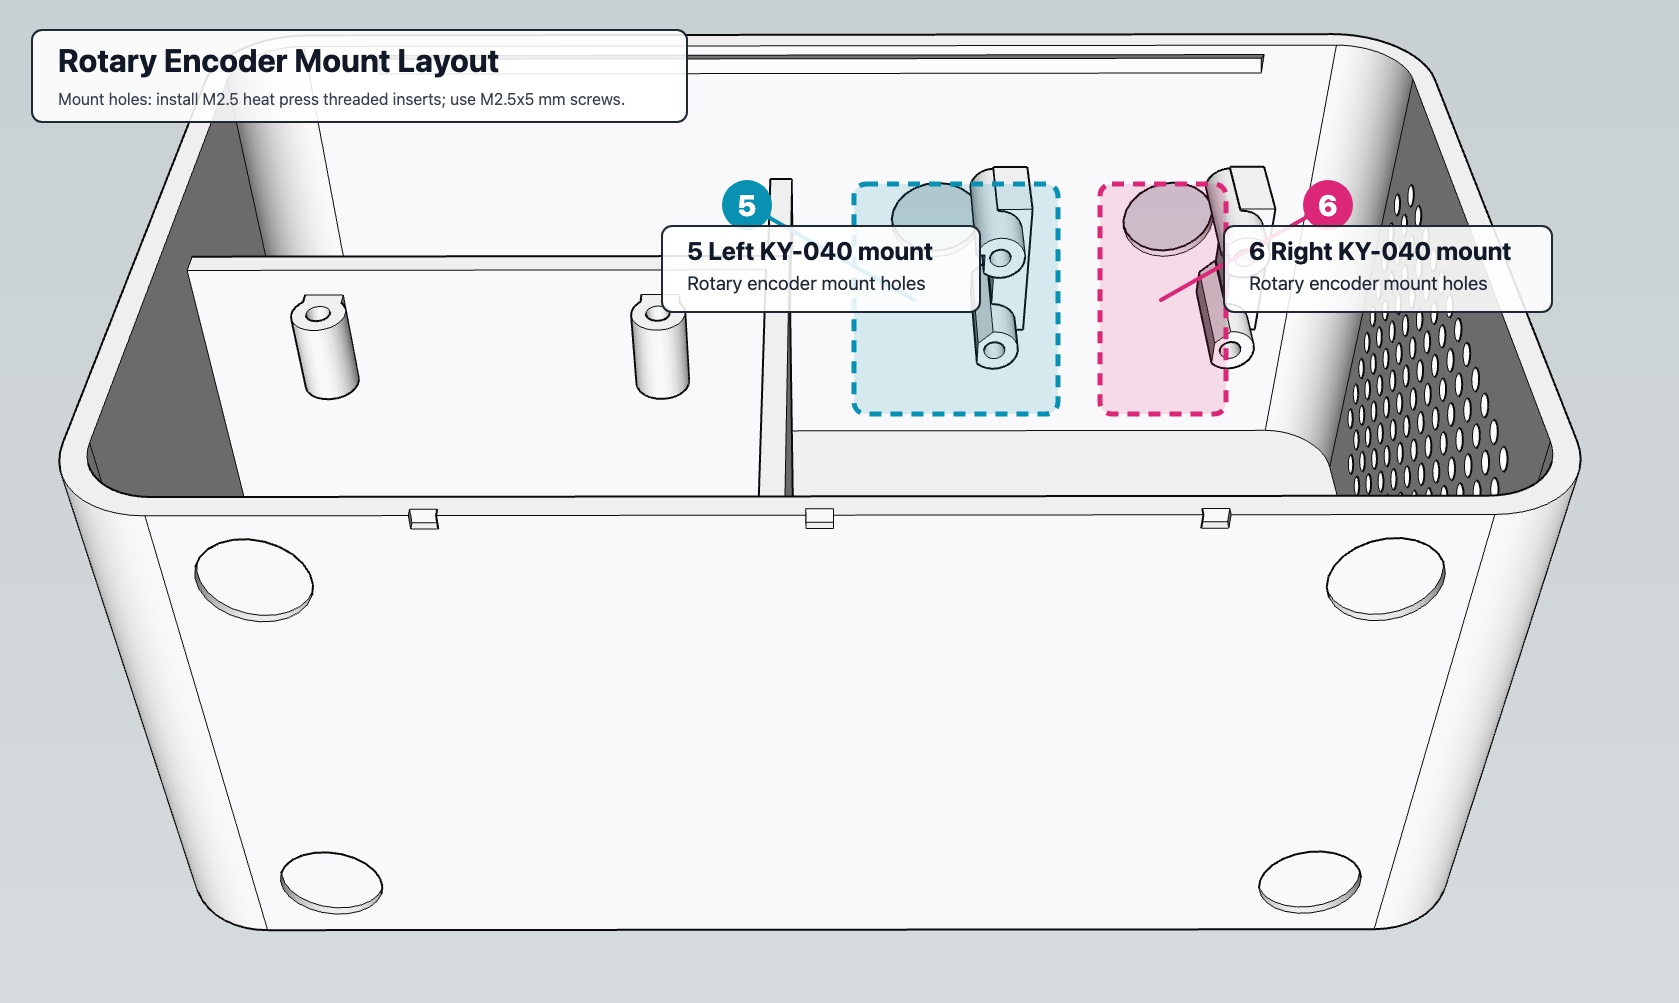
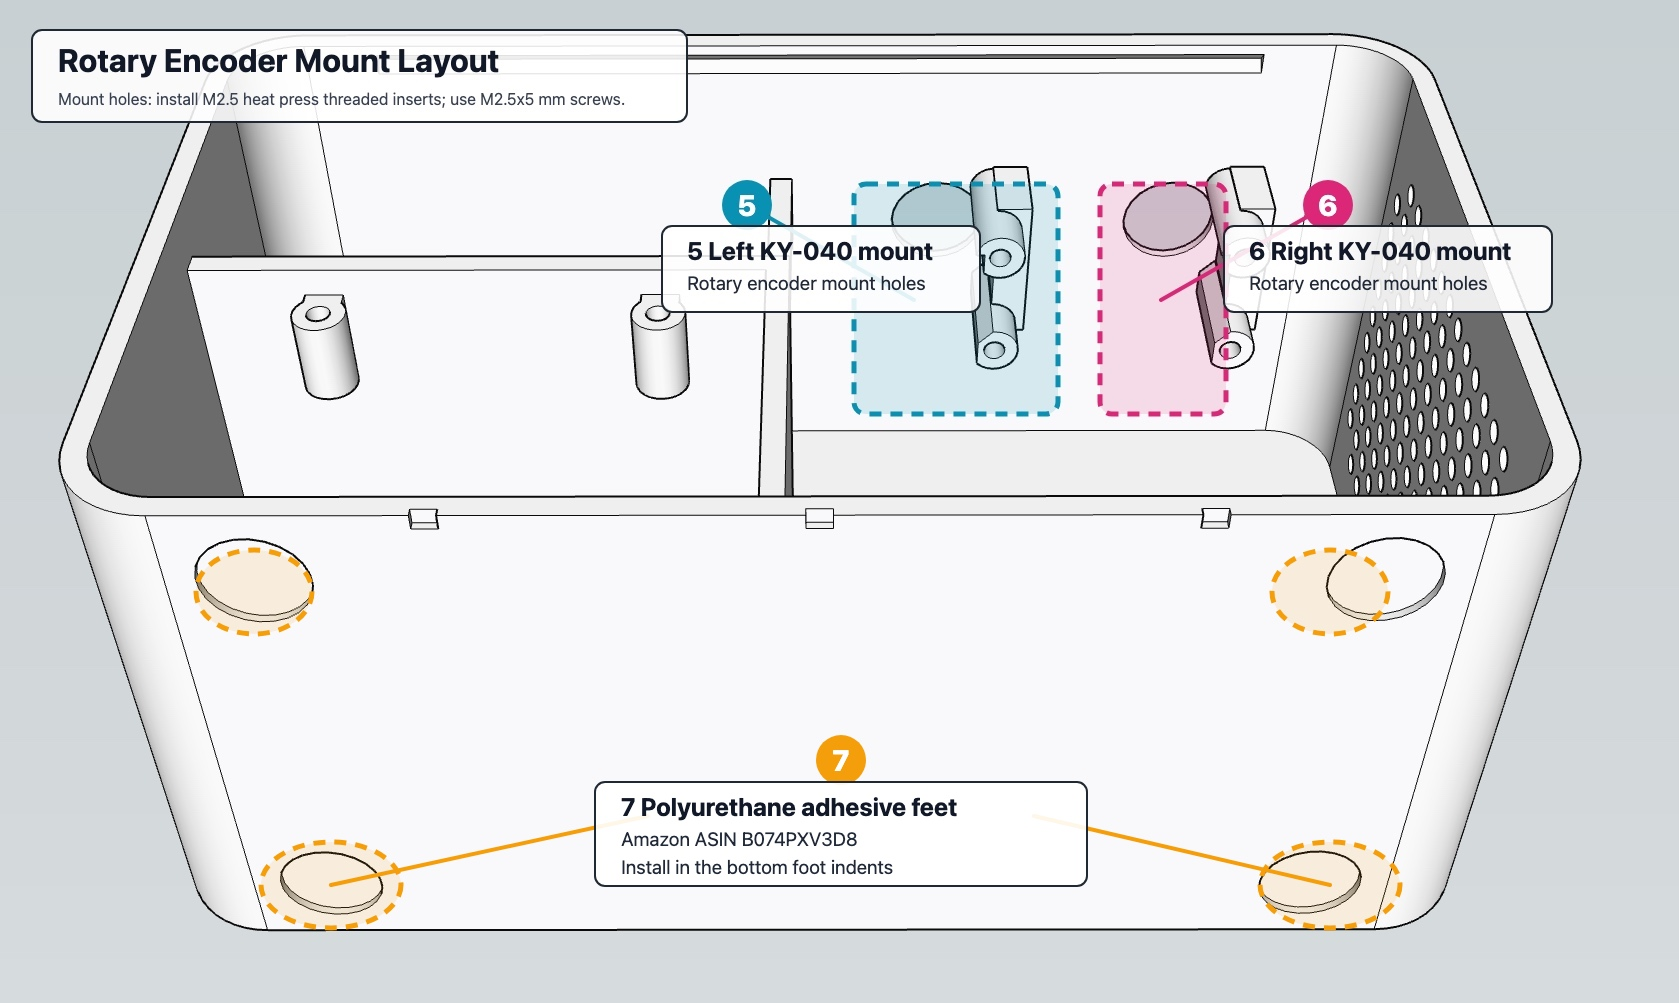
Add foot callout to case diagram

diff --git a/hardware/case/README.md b/hardware/case/README.md
@@ -21,6 +21,8 @@ In the diagram, orange `4` marks the speaker mounting bosses for a Visaton FRWS 
 
 In the rotary encoder diagram, `5` and `6` mark the two KY-040 rotary encoder module mounts on the inner front wall.
 
+Orange `7` marks the bottom foot indents. Install polyurethane adhesive feet in those indents; the build uses [Amazon ASIN B074PXV3D8](https://www.amazon.com/dp/B074PXV3D8?th=1).
+
 The annotated JPGs use the CAD screenshots in [images/](images/) as their source views.
 
 ## Notes
